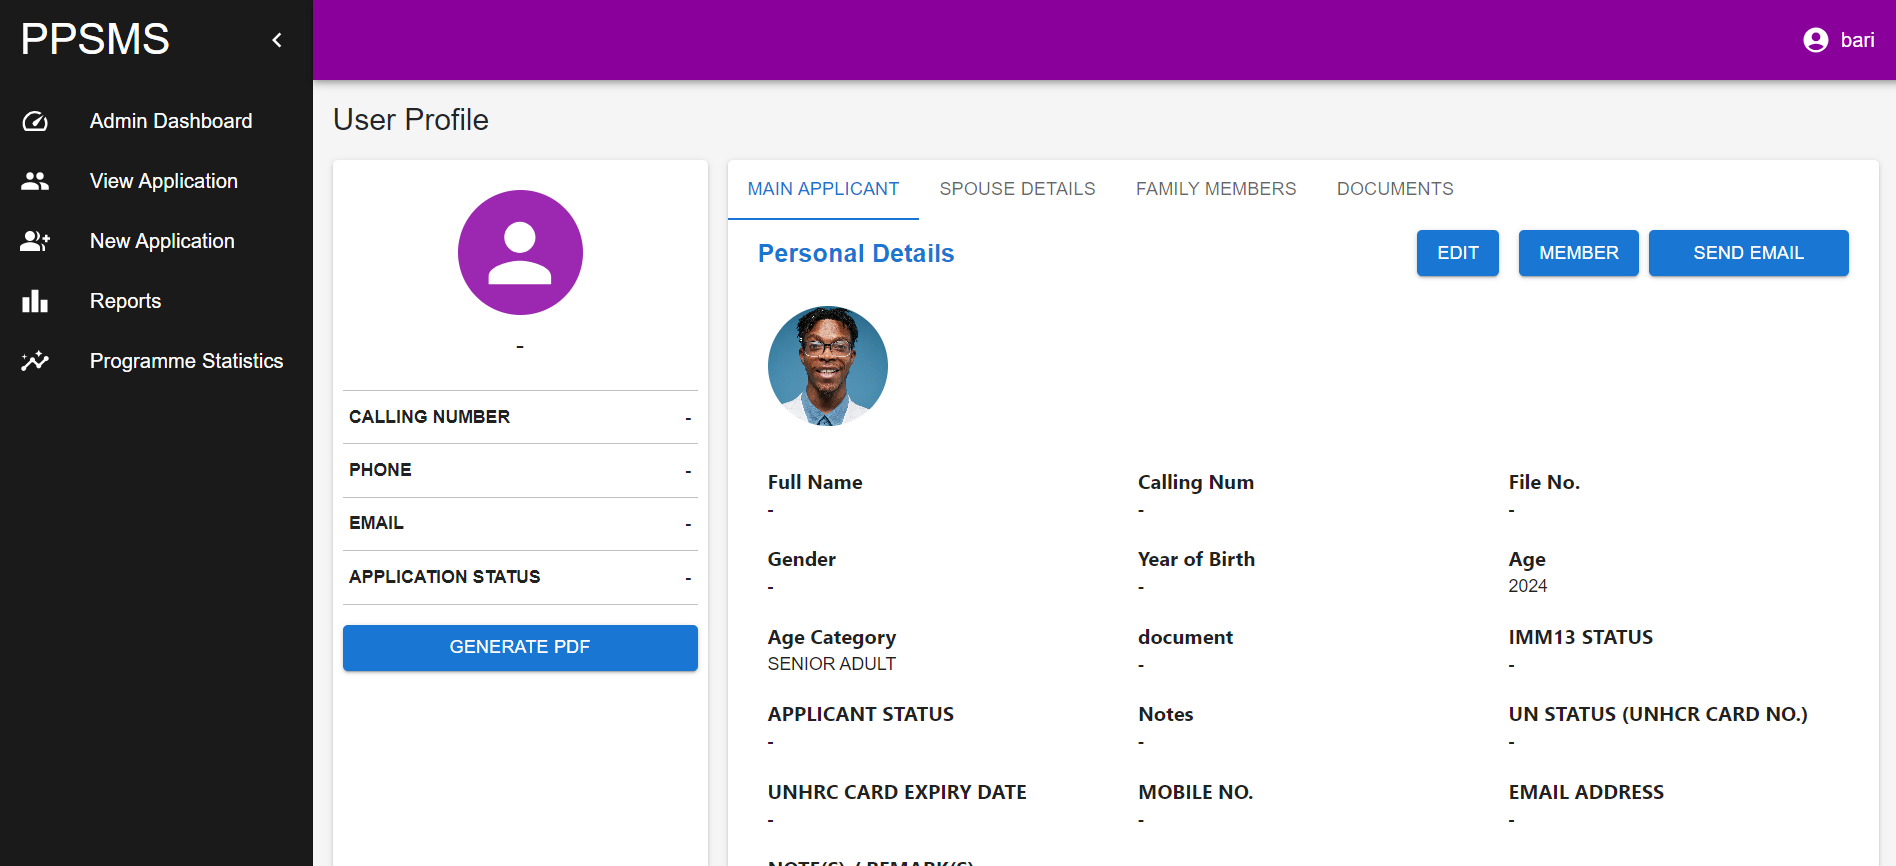
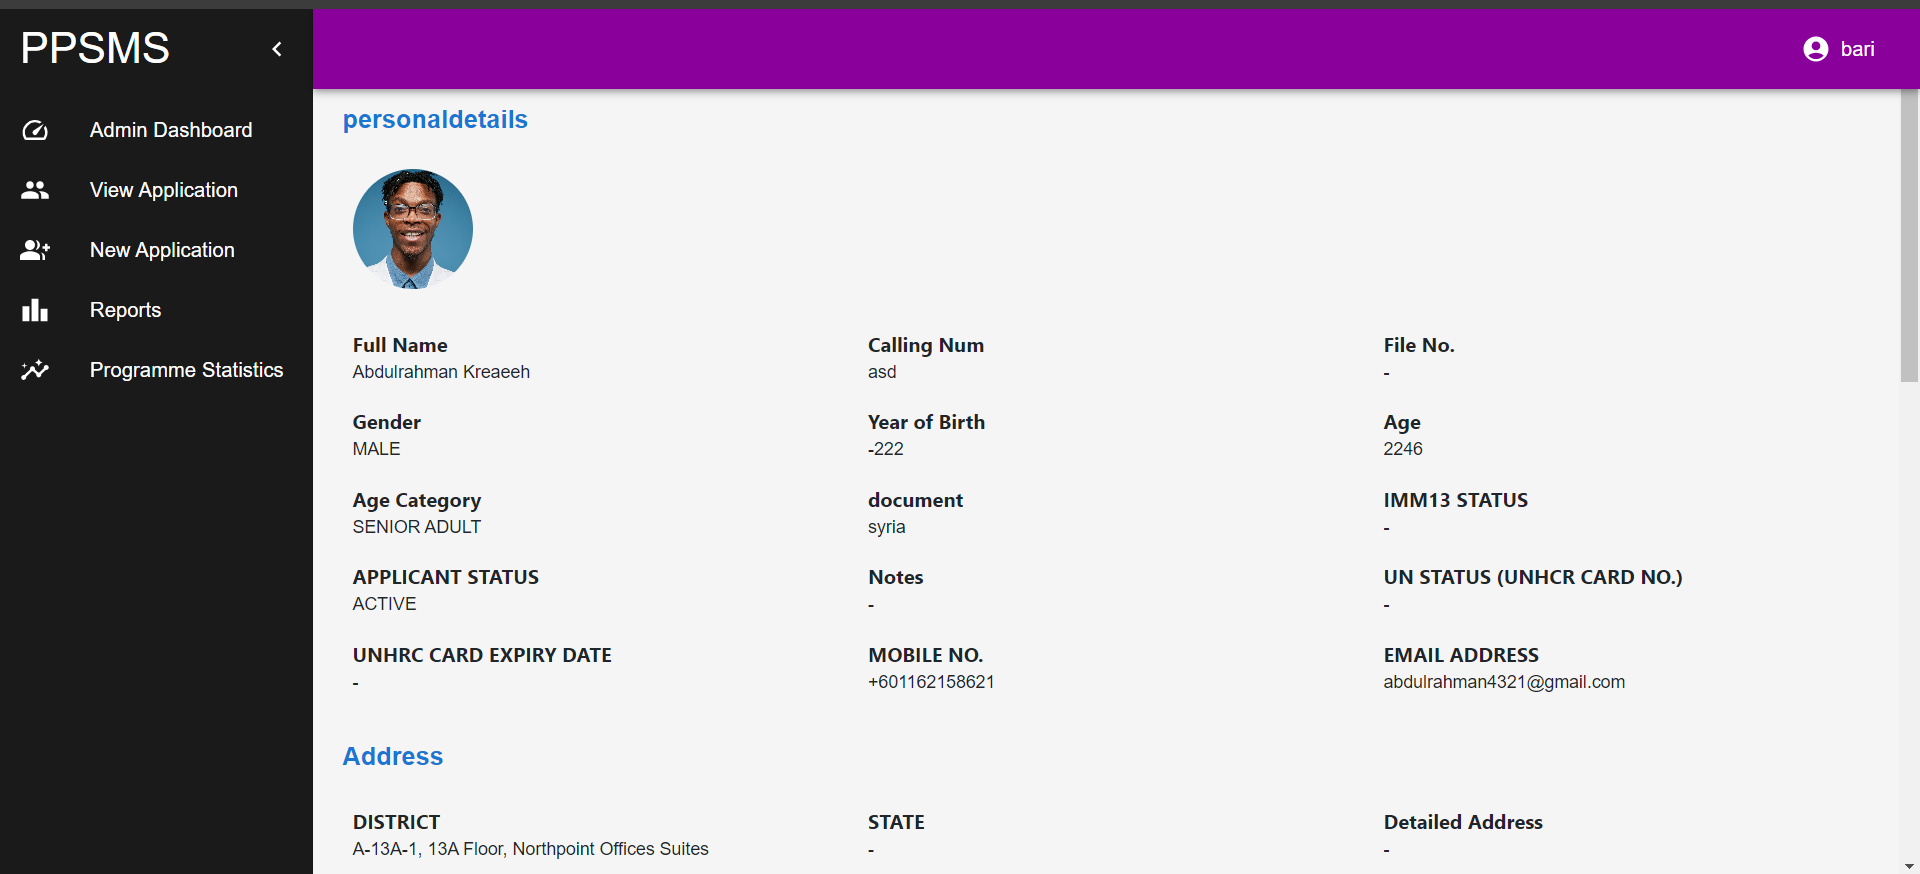
Support preview videos on project cards
Add optional video/poster fields to projects, allow MP4/WebM uploads in
the admin dashboard, and serve Range requests so videos play in Safari.

diff --git a/src/components/ui/ProjectCard.tsx b/src/components/ui/ProjectCard.tsx
@@ -1,5 +1,6 @@
 "use client";
 
+import { useState } from "react";
 import Image from "next/image";
 import { MapPin } from "lucide-react";
 import { motion } from "framer-motion";
@@ -20,6 +21,8 @@ export function ProjectCard({
   const reduce = useReducedMotionSafe();
   const tilt = useTilt<HTMLElement>(6);
   const label = String(index + 1).padStart(2, "0");
+  const [videoReady, setVideoReady] = useState(false);
+  const cover = project.video ? project.poster || project.image : project.image;
 
   const revealProps = reduce
     ? {}
@@ -42,18 +45,37 @@ export function ProjectCard({
       onPointerLeave={reduce ? undefined : tilt.onPointerLeave}
     >
       <div className="relative flex min-h-[280px] items-center justify-center overflow-hidden bg-[radial-gradient(circle_at_30%_20%,rgba(255,255,255,0.06),transparent_55%),linear-gradient(160deg,#1f1f1f,#131313)]">
-        {project.image ? (
+        {cover || project.video ? (
           <>
-            <Image
-              src={project.image}
-              alt={project.title}
-              fill
-              sizes="(max-width: 820px) 100vw, 50vw"
-              className="object-cover transition-transform duration-500 ease-smooth group-hover:scale-[1.03]"
-            />
+            {cover && (
+              <Image
+                src={cover}
+                alt={project.title}
+                fill
+                sizes="(max-width: 820px) 100vw, 50vw"
+                className="object-cover transition-transform duration-500 ease-smooth group-hover:scale-[1.03]"
+              />
+            )}
+            {project.video && (
+              <video
+                src={project.video}
+                poster={cover}
+                aria-label={project.title}
+                muted
+                loop
+                playsInline
+                autoPlay={!reduce}
+                controls={reduce}
+                preload={reduce ? "none" : "auto"}
+                onCanPlay={() => setVideoReady(true)}
+                className={`absolute inset-0 h-full w-full object-cover transition-[opacity,transform] duration-700 ease-smooth group-hover:scale-[1.03] ${
+                  videoReady || reduce ? "opacity-100" : "opacity-0"
+                }`}
+              />
+            )}
             <span
               aria-hidden="true"
-              className="absolute inset-0 bg-[linear-gradient(160deg,rgba(20,20,20,0.15),rgba(20,20,20,0.6))]"
+              className="pointer-events-none absolute inset-0 bg-[linear-gradient(160deg,rgba(20,20,20,0.15),rgba(20,20,20,0.6))]"
             />
           </>
         ) : (

diff --git a/src/app/admin/(dashboard)/[section]/ImageDropField.tsx b/src/app/admin/(dashboard)/[section]/ImageDropField.tsx
@@ -2,14 +2,19 @@
 
 import { useRef, useState, type DragEvent } from "react";
 
-const ACCEPTED_TYPES = "image/png,image/jpeg,image/webp,image/gif,image/svg+xml,image/avif";
+const ACCEPTED_TYPES = {
+  image: "image/png,image/jpeg,image/webp,image/gif,image/svg+xml,image/avif",
+  video: "video/mp4,video/webm",
+};
 
 export function ImageDropField({
   value,
   onChange,
+  media = "image",
 }: {
   value: string;
   onChange: (url: string) => void;
+  media?: "image" | "video";
 }) {
   const inputRef = useRef<HTMLInputElement>(null);
   const [dragging, setDragging] = useState(false);
@@ -60,16 +65,24 @@ export function ImageDropField({
         }`}
       >
         {value ? (
-          // eslint-disable-next-line @next/next/no-img-element
-          <img src={value} alt="" className="h-20 w-auto rounded object-cover" />
+          media === "video" ? (
+            <video src={value} muted playsInline preload="metadata" className="h-20 w-auto rounded object-cover" />
+          ) : (
+            // eslint-disable-next-line @next/next/no-img-element
+            <img src={value} alt="" className="h-20 w-auto rounded object-cover" />
+          )
         ) : null}
         <span className="text-xs text-ink-secondary">
-          {uploading ? "Uploading…" : "Drag & drop an image, or click to browse"}
+          {uploading
+            ? "Uploading…"
+            : media === "video"
+              ? "Drag & drop an MP4/WebM video (max 5MB), or click to browse"
+              : "Drag & drop an image, or click to browse"}
         </span>
         <input
           ref={inputRef}
           type="file"
-          accept={ACCEPTED_TYPES}
+          accept={ACCEPTED_TYPES[media]}
           className="hidden"
           onChange={(e) => {
             const file = e.target.files?.[0];
@@ -78,13 +91,22 @@ export function ImageDropField({
           }}
         />
       </div>
+      {media === "video" && (
+        <input
+          type="url"
+          value={value}
+          onChange={(e) => onChange(e.target.value)}
+          placeholder="…or paste a video URL (.mp4 / .webm)"
+          className="mt-2 w-full rounded-md border border-white/10 bg-surface px-3 py-2 text-sm text-ink-primary outline-none focus:border-white/30"
+        />
+      )}
       {value && (
         <button
           type="button"
           onClick={() => onChange("")}
           className="mt-1 text-xs text-ink-secondary hover:text-red-400"
         >
-          Remove image
+          Remove {media}
         </button>
       )}
       {error && <p className="mt-1 text-xs text-red-400">{error}</p>}

diff --git a/src/lib/admin/section-config.ts b/src/lib/admin/section-config.ts
@@ -3,7 +3,7 @@ import type { SectionKey } from "@/lib/content/schema";
 export type RowField = {
   key: string;
   label: string;
-  type: "text" | "textarea" | "checkbox" | "image";
+  type: "text" | "textarea" | "checkbox" | "image" | "video";
 };
 
 export type Row = Record<string, string | boolean>;
@@ -108,6 +108,8 @@ export const SECTION_CONFIGS: Record<SectionKey, SectionConfig> = {
           { key: "linkLabel", label: "Link label", type: "text" },
           { key: "linkHref", label: "Link URL", type: "text" },
           { key: "image", label: "Image", type: "image" },
+          { key: "video", label: "Video (optional)", type: "video" },
+          { key: "poster", label: "Video poster (shown while the video loads)", type: "image" },
           { key: "country", label: "Country", type: "text" },
           { key: "role", label: "My role", type: "text" },
         ],
@@ -119,10 +121,12 @@ export const SECTION_CONFIGS: Record<SectionKey, SectionConfig> = {
           linkLabel: "",
           linkHref: "",
           image: "",
+          video: "",
+          poster: "",
           country: "",
           role: "",
         },
-        sharedFields: ["image", "linkHref", "tech"],
+        sharedFields: ["image", "video", "poster", "linkHref", "tech"],
         toRow: (item) => ({
           title: String(item.title ?? ""),
           tag: String(item.tag ?? ""),
@@ -131,6 +135,8 @@ export const SECTION_CONFIGS: Record<SectionKey, SectionConfig> = {
           linkLabel: String((item.links as Array<{ label?: string }>)?.[0]?.label ?? ""),
           linkHref: String((item.links as Array<{ href?: string }>)?.[0]?.href ?? ""),
           image: String(item.image ?? ""),
+          video: String(item.video ?? ""),
+          poster: String(item.poster ?? ""),
           country: String(item.country ?? ""),
           role: String(item.role ?? ""),
         }),
@@ -145,6 +151,8 @@ export const SECTION_CONFIGS: Record<SectionKey, SectionConfig> = {
             tech: listFromCsv(String(row.tech || "")),
             links,
             ...(row.image ? { image: row.image } : {}),
+            ...(row.video ? { video: row.video } : {}),
+            ...(row.poster ? { poster: row.poster } : {}),
             ...(row.country ? { country: row.country } : {}),
             ...(row.role ? { role: row.role } : {}),
           };

diff --git a/src/app/api/images/[key]/route.ts b/src/app/api/images/[key]/route.ts
@@ -2,7 +2,7 @@ import { NextResponse } from "next/server";
 import { readImage } from "@/lib/content/images";
 
 export async function GET(
-  _request: Request,
+  request: Request,
   { params }: { params: Promise<{ key: string }> },
 ) {
   const { key } = await params;
@@ -11,10 +11,36 @@ export async function GET(
     return NextResponse.json({ error: "Not found." }, { status: 404 });
   }
 
+  const headers = {
+    "Content-Type": image.contentType,
+    "Cache-Control": "public, max-age=31536000, immutable",
+    "Accept-Ranges": "bytes",
+  };
+  const size = image.data.byteLength;
+
+  // Browsers (Safari in particular) fetch videos with Range requests and
+  // won't play them unless we answer with 206 Partial Content.
+  const range = /^bytes=(\d*)-(\d*)$/.exec(request.headers.get("range") ?? "");
+  if (range && (range[1] || range[2])) {
+    const start = range[1] ? Number(range[1]) : Math.max(0, size - Number(range[2]));
+    const end = range[1] && range[2] ? Math.min(Number(range[2]), size - 1) : size - 1;
+    if (start >= size || start > end) {
+      return new NextResponse(null, {
+        status: 416,
+        headers: { "Content-Range": `bytes */${size}` },
+      });
+    }
+    return new NextResponse(image.data.slice(start, end + 1), {
+      status: 206,
+      headers: {
+        ...headers,
+        "Content-Range": `bytes ${start}-${end}/${size}`,
+        "Content-Length": String(end - start + 1),
+      },
+    });
+  }
+
   return new NextResponse(image.data, {
-    headers: {
-      "Content-Type": image.contentType,
-      "Cache-Control": "public, max-age=31536000, immutable",
-    },
+    headers: { ...headers, "Content-Length": String(size) },
   });
 }

diff --git a/src/app/api/admin/upload/route.ts b/src/app/api/admin/upload/route.ts
@@ -3,6 +3,8 @@ import { NextResponse } from "next/server";
 import { saveImage } from "@/lib/content/images";
 
 const MAX_SIZE = 4 * 1024 * 1024;
+// Netlify Functions reject request bodies over ~6MB, so videos can't go much higher.
+const MAX_VIDEO_SIZE = 5 * 1024 * 1024;
 
 const EXTENSIONS: Record<string, string> = {
   "image/png": "png",
@@ -11,6 +13,8 @@ const EXTENSIONS: Record<string, string> = {
   "image/gif": "gif",
   "image/svg+xml": "svg",
   "image/avif": "avif",
+  "video/mp4": "mp4",
+  "video/webm": "webm",
 };
 
 export async function POST(request: Request) {
@@ -23,12 +27,20 @@ export async function POST(request: Request) {
   const extension = EXTENSIONS[file.type];
   if (!extension) {
     return NextResponse.json(
-      { error: "Unsupported image type. Use PNG, JPEG, WebP, GIF, AVIF, or SVG." },
+      { error: "Unsupported file type. Use PNG, JPEG, WebP, GIF, AVIF, SVG, MP4, or WebM." },
       { status: 400 },
     );
   }
-  if (file.size > MAX_SIZE) {
-    return NextResponse.json({ error: "Image is too large (max 4MB)." }, { status: 400 });
+  const isVideo = file.type.startsWith("video/");
+  if (file.size > (isVideo ? MAX_VIDEO_SIZE : MAX_SIZE)) {
+    return NextResponse.json(
+      {
+        error: isVideo
+          ? "Video is too large (max 5MB). Compress it, or host it elsewhere and paste its URL."
+          : "Image is too large (max 4MB).",
+      },
+      { status: 400 },
+    );
   }
 
   const key = `${Date.now()}-${randomUUID()}.${extension}`;

diff --git a/src/app/admin/(dashboard)/[section]/SectionEditor.tsx b/src/app/admin/(dashboard)/[section]/SectionEditor.tsx
@@ -230,7 +230,7 @@ export function SectionEditor({ section }: { section: SectionKey }) {
                           <Skeleton
                             key={field.key}
                             className={`h-9 ${
-                              field.type === "textarea" || field.type === "image"
+                              field.type === "textarea" || field.type === "image" || field.type === "video"
                                 ? "sm:col-span-2 h-20"
                                 : ""
                             }`}
@@ -368,8 +368,9 @@ export function SectionEditor({ section }: { section: SectionKey }) {
                             <label className="mb-1 block text-xs text-ink-secondary">
                               {field.label}
                             </label>
-                            {field.type === "image" ? (
+                            {field.type === "image" || field.type === "video" ? (
                               <ImageDropField
+                                media={field.type}
                                 value={(row[field.key] as string) ?? ""}
                                 onChange={(url) => updateRow(idx, field.key, url)}
                               />

diff --git a/src/data/projects.ts b/src/data/projects.ts
@@ -18,6 +18,13 @@ export type Project = {
    * When omitted, the card shows the faded index number instead.
    */
   image?: string;
+  /**
+   * Optional preview video (MP4/WebM URL, or a path under `public/`). Plays
+   * muted and looped in place of the image once it has loaded.
+   */
+  video?: string;
+  /** Image shown while the video loads. Falls back to `image`. */
+  poster?: string;
   /** Country the project's owner / client is based in. Shown next to the tag. */
   country?: string;
   /** What I did on the project (e.g. "Full-Stack Development"). Shown under the title. */

diff --git a/src/data/i18n/types.ts b/src/data/i18n/types.ts
@@ -18,6 +18,10 @@ export type ProjectEntry = {
   links: ProjectLink[];
   /** Optional preview image (path under `public/`). Falls back to the index number. */
   image?: string;
+  /** Optional preview video (URL). Plays in place of the image once loaded. */
+  video?: string;
+  /** Image shown while the video loads. Falls back to `image`. */
+  poster?: string;
   /** Country the project's owner / client is based in. */
   country?: string;
   /** What I did on the project (e.g. "Full-Stack Development"). Shown under the title. */
